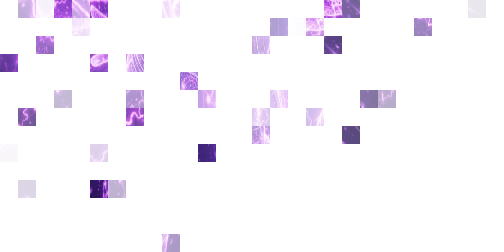
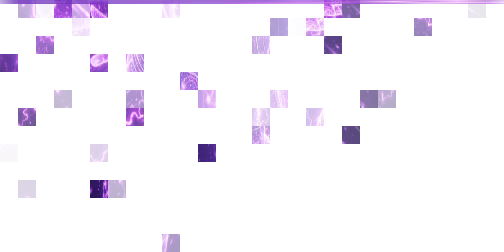
chore: (repo) Automatic commit.

Changed region(s): [[0.0, 0.0, 1.0, 0.0278]]

diff --git a/site/app/src/client/App.tsx b/site/app/src/client/App.tsx
@@ -3,10 +3,18 @@ import styled from "styled-components";
 import { ApplicationStateProvider, Route } from "../../../../src/app/utils";
 
 const NavBar = styled.nav`
-  background: var(--pico-primary-background);
-  mix-blend-mode: hard-light;
+  background: linear-gradient(to top, #FFFFFF11 0%, transparent 100%);
+  background: -webkit-linear-gradient(
+    to top,
+    #FFFFFF11 0%,
+    transparent 100%
+  );
+  background: -moz-linear-gradient(to top, #FFFFFF11 0%, transparent 100%);
 
   padding: 0 1em;
+
+  border-bottom: 0.15em solid transparent;
+  border-image: url("/images/Voltra Incarnate.png") 1 round stretch;
 
   & > ul {
     & > li {
@@ -23,7 +31,7 @@ const Content = styled.div`
   align-items: stretch;
   justify-content: flex-start;
   gap: 2em;
-  padding: 2em;
+  padding: 0 2em 2em 2em;
 `;
 
 const ContentCardGrid = styled.div`
